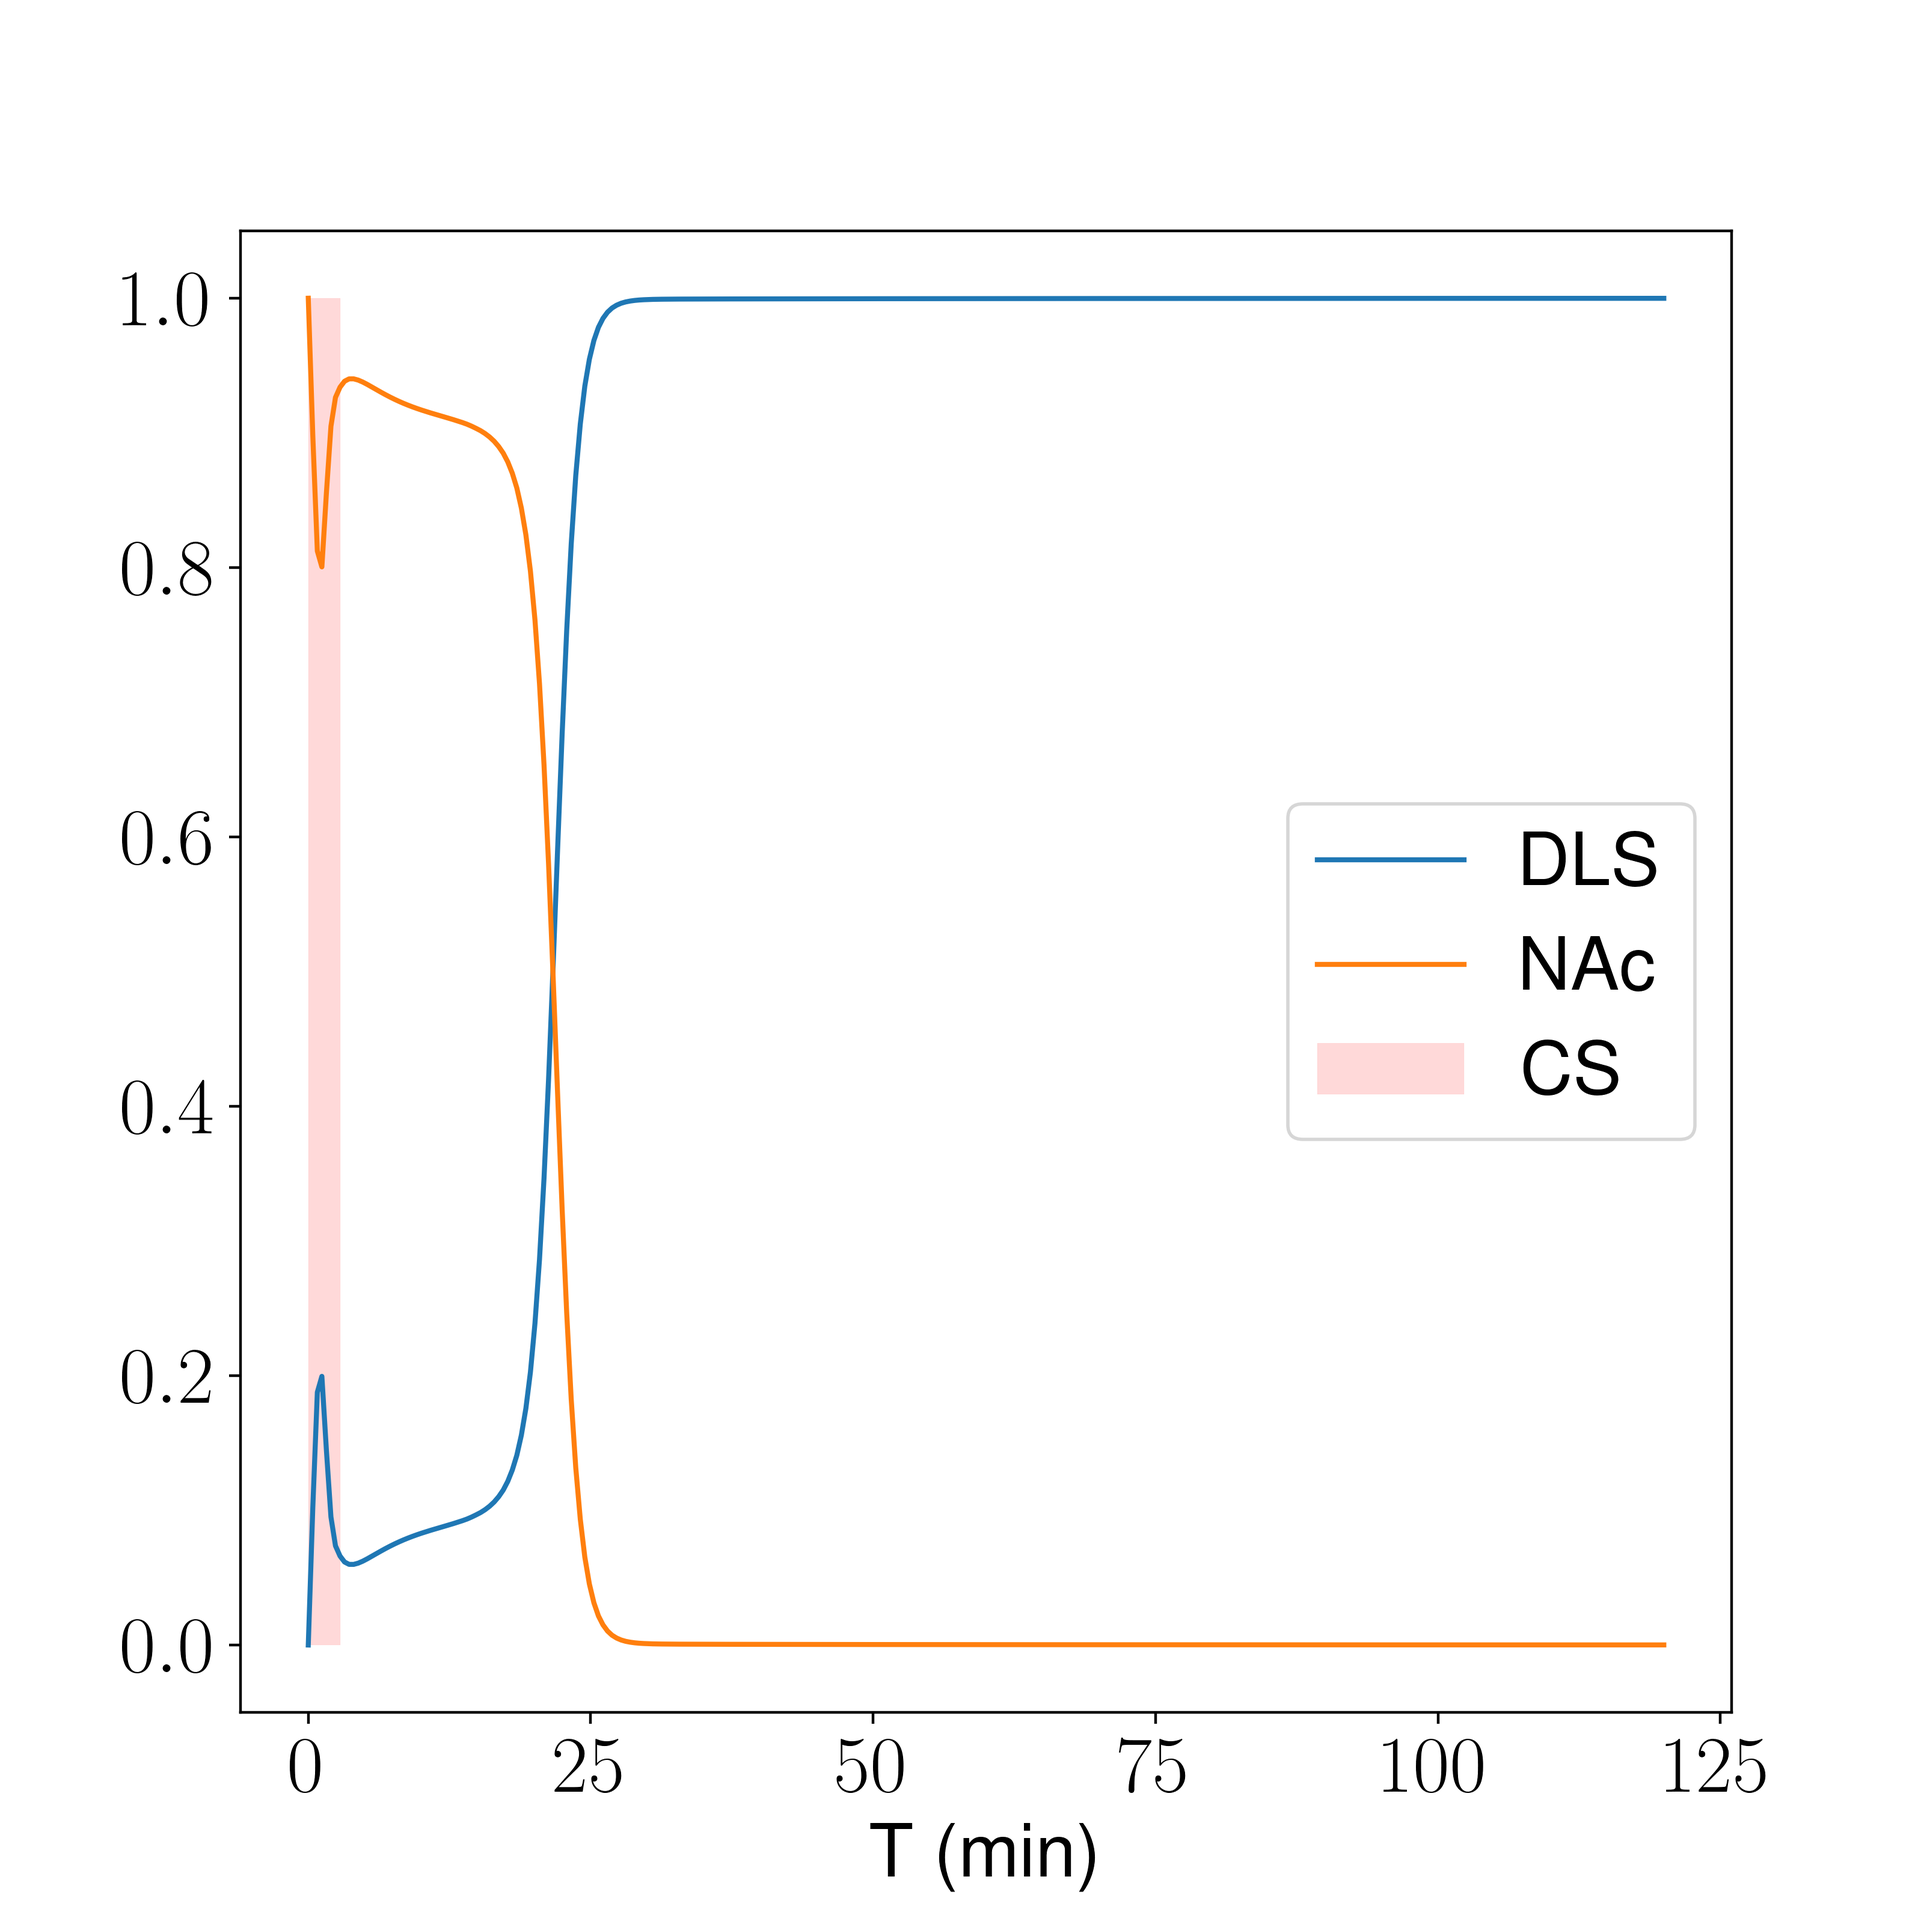
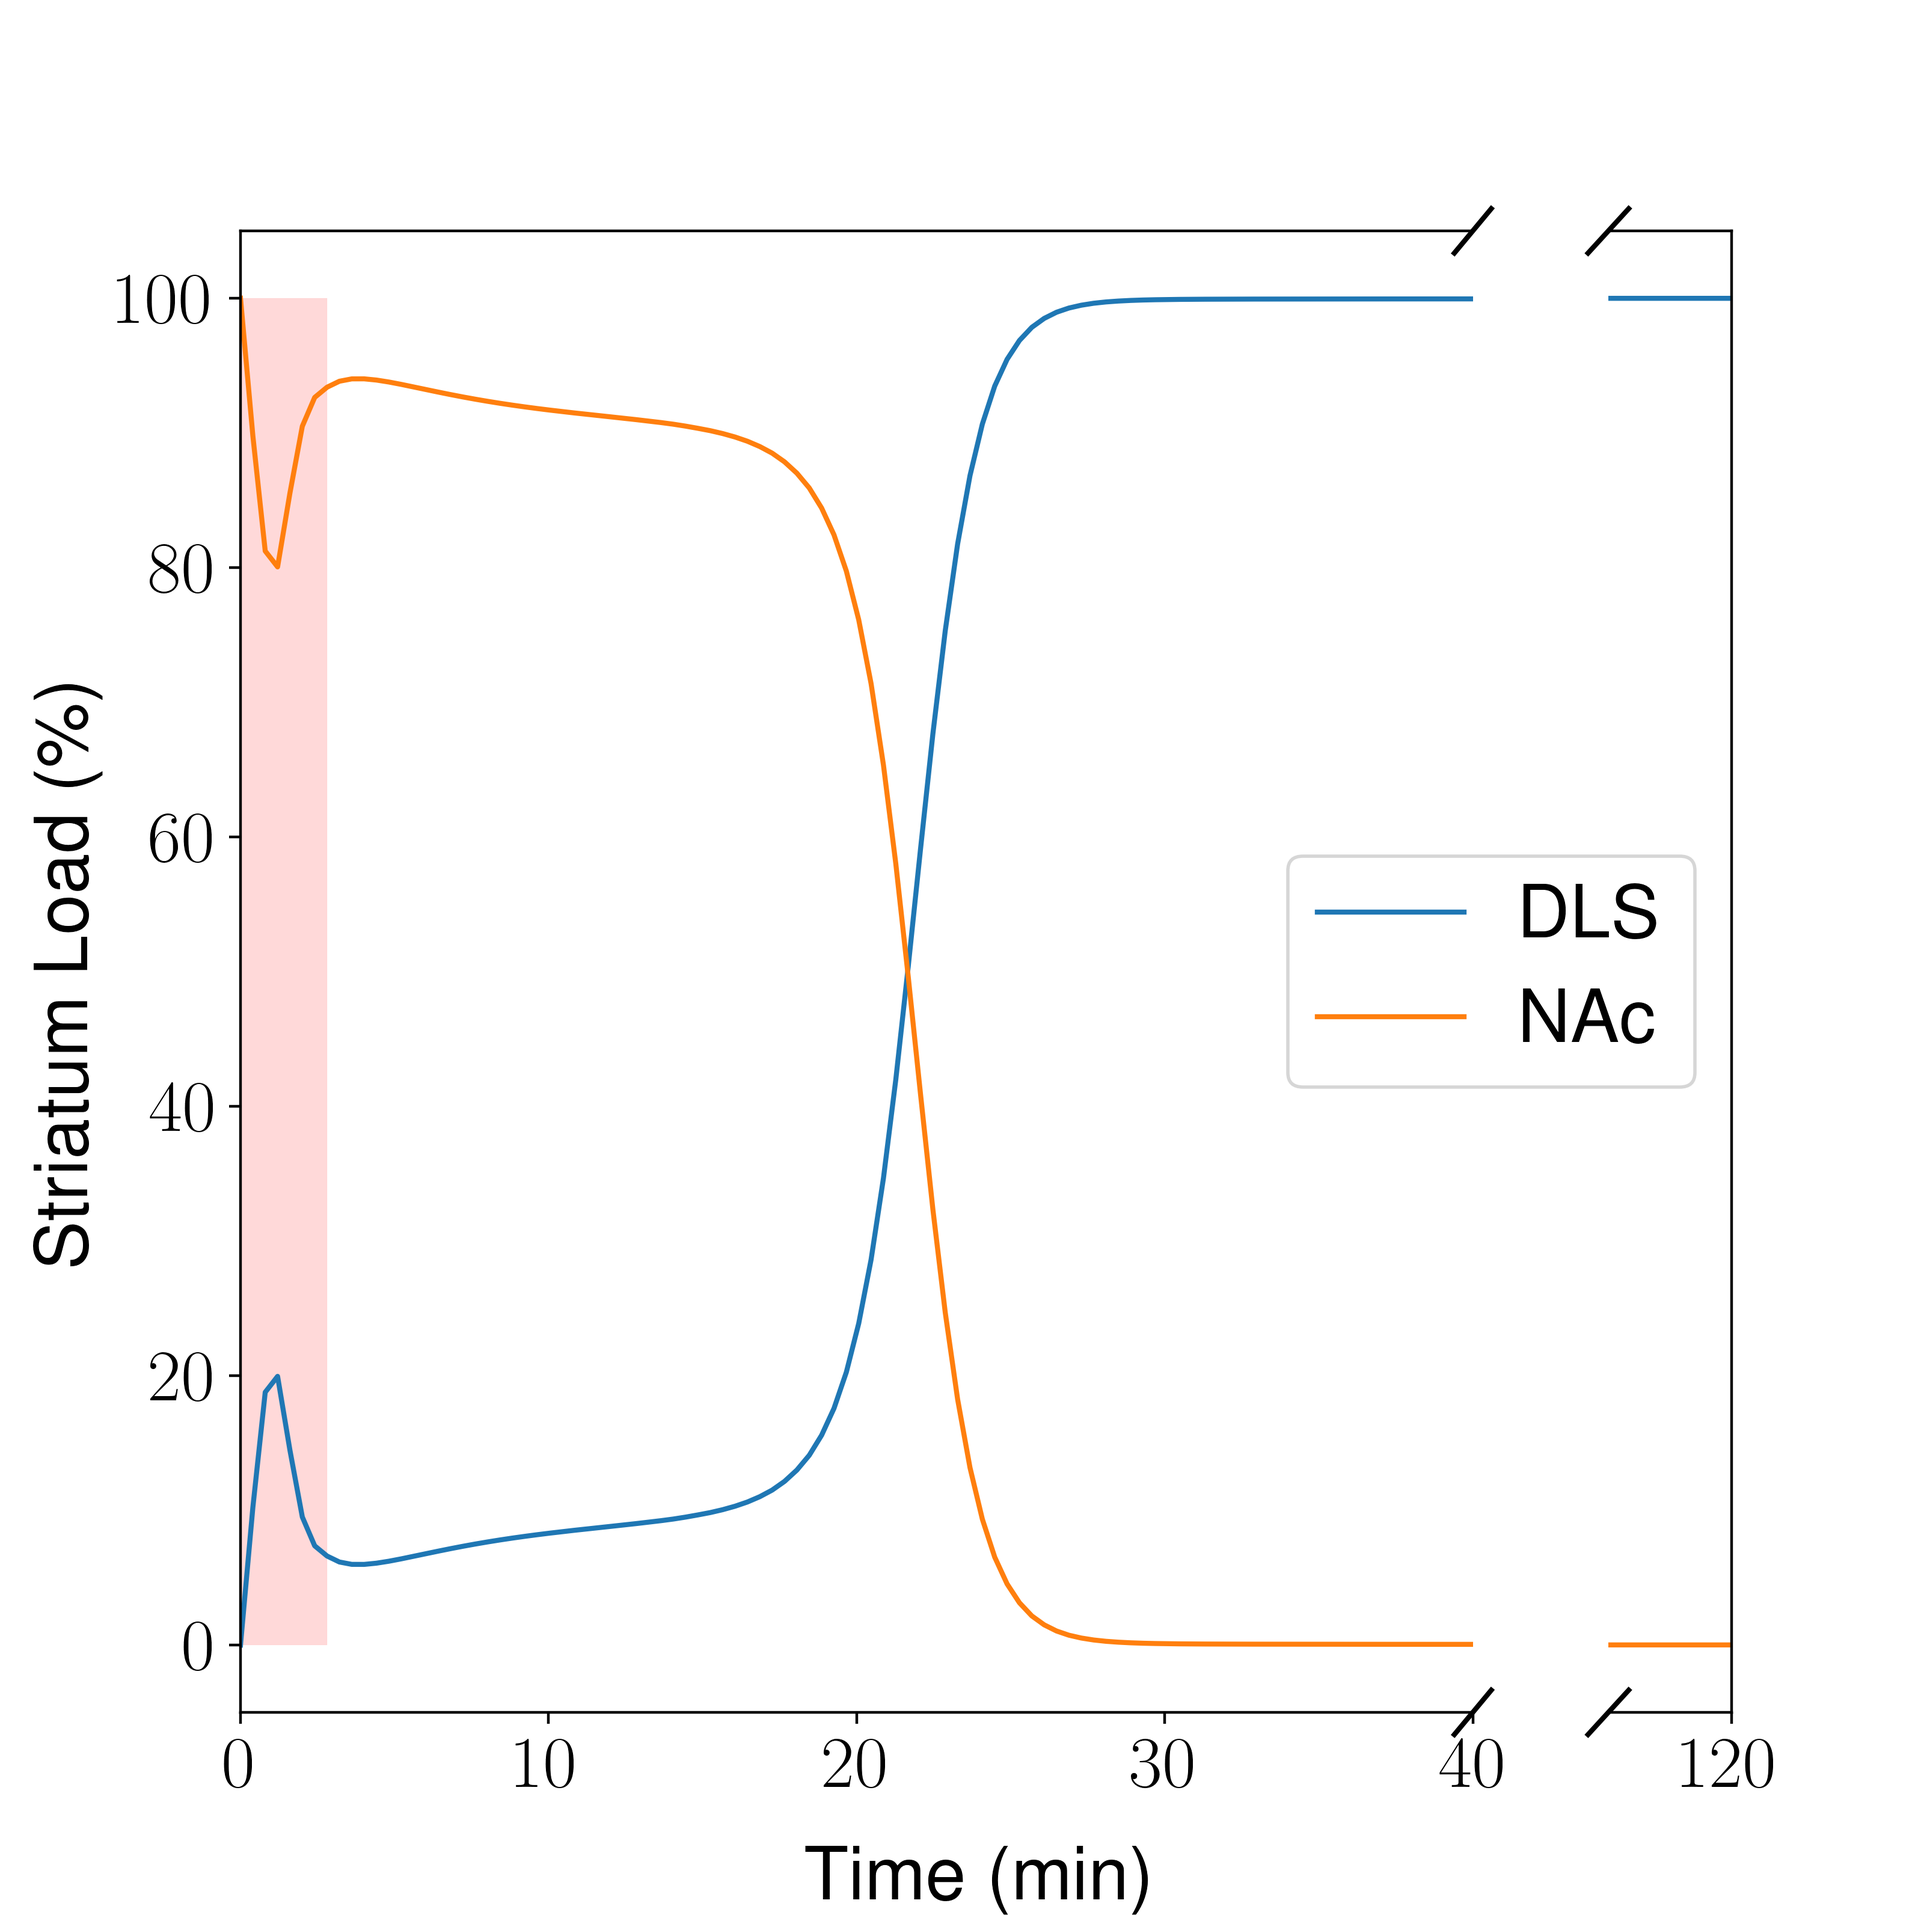
sync

diff --git a/Code/Models/FINAL/dlsVsNac.py b/Code/Models/FINAL/dlsVsNac.py
@@ -9,16 +9,35 @@ t = np.linspace(0, 120, 300)
 nac = xppaut_model(t, False)['Int'][3]
 dls = xppaut_model(t, False)['Int'][4]
 
-result = dls/(dls+nac)
-fig, ax = plt.subplots(figsize=(8, 8))
-ax.plot(t, result, label="DLS")
+result = 100*(dls/(dls+nac))
+fig, ax = plt.subplots(1, 2, sharey=True, facecolor='w', gridspec_kw={'width_ratios': [10, 1]}, figsize=(8, 8))
+for i in range(2):
+    ax[i].plot(t, result, label="DLS")
+    ax[i].plot(t, 100-result, label="NAc")
 
-plt.xticks(fontsize=24)
-plt.yticks(fontsize=24)
+plt.xticks(fontsize=22)
+plt.yticks(fontsize=22)
 
-ax.plot(t, 1-result, label="NAc")
-ax.fill_between(t, 1, where=[(t >= 0) and (t <= 3) for t in t], color = 'red', alpha = 0.15, linewidth = 0.05, label='CS') 
-ax.set_xlabel("T (min)")
+ax[0].set_xlim(0, 40)
+ax[1].set_xlim(115, 120)
+ax[1].set_xticks([120])
+ax[0].spines['right'].set_visible(False)
+ax[1].spines['left'].set_visible(False)
+ax[1].tick_params(left = False) 
+d = .015  
+r = 0
+s = 0.15
+kwargs = dict(transform=ax[0].transAxes, color='k', clip_on=False)
+ax[0].plot((1-d+r, 1+d+r), (-d, +d), **kwargs)
+ax[0].plot((1-d+r, 1+d+r), (1-d, 1+d), **kwargs)
+kwargs.update(transform=ax[1].transAxes)  # switch to the bottom axes
+ax[1].plot((-d-0.3+s, +d+s), (1-d, 1+d), **kwargs)
+ax[1].plot((-d-0.3+s, +d+s), (-d, +d), **kwargs)
+ax[0].set_xlabel('Time (min)')
+ax[0].set_ylabel('Striatum Load (\%)')
+ax[0].xaxis.set_label_coords(0.6, -0.09)
+
+ax[0].fill_between(t, 100, where=[(t >= 0) and (t <= 3) for t in t], color = 'red', alpha = 0.15, linewidth = 0.05, label='CS') 
 plt.legend()
 plt.savefig("Code/Models/FINAL/Pics/dlsFig.png", transparent=False, dpi=400)
 
